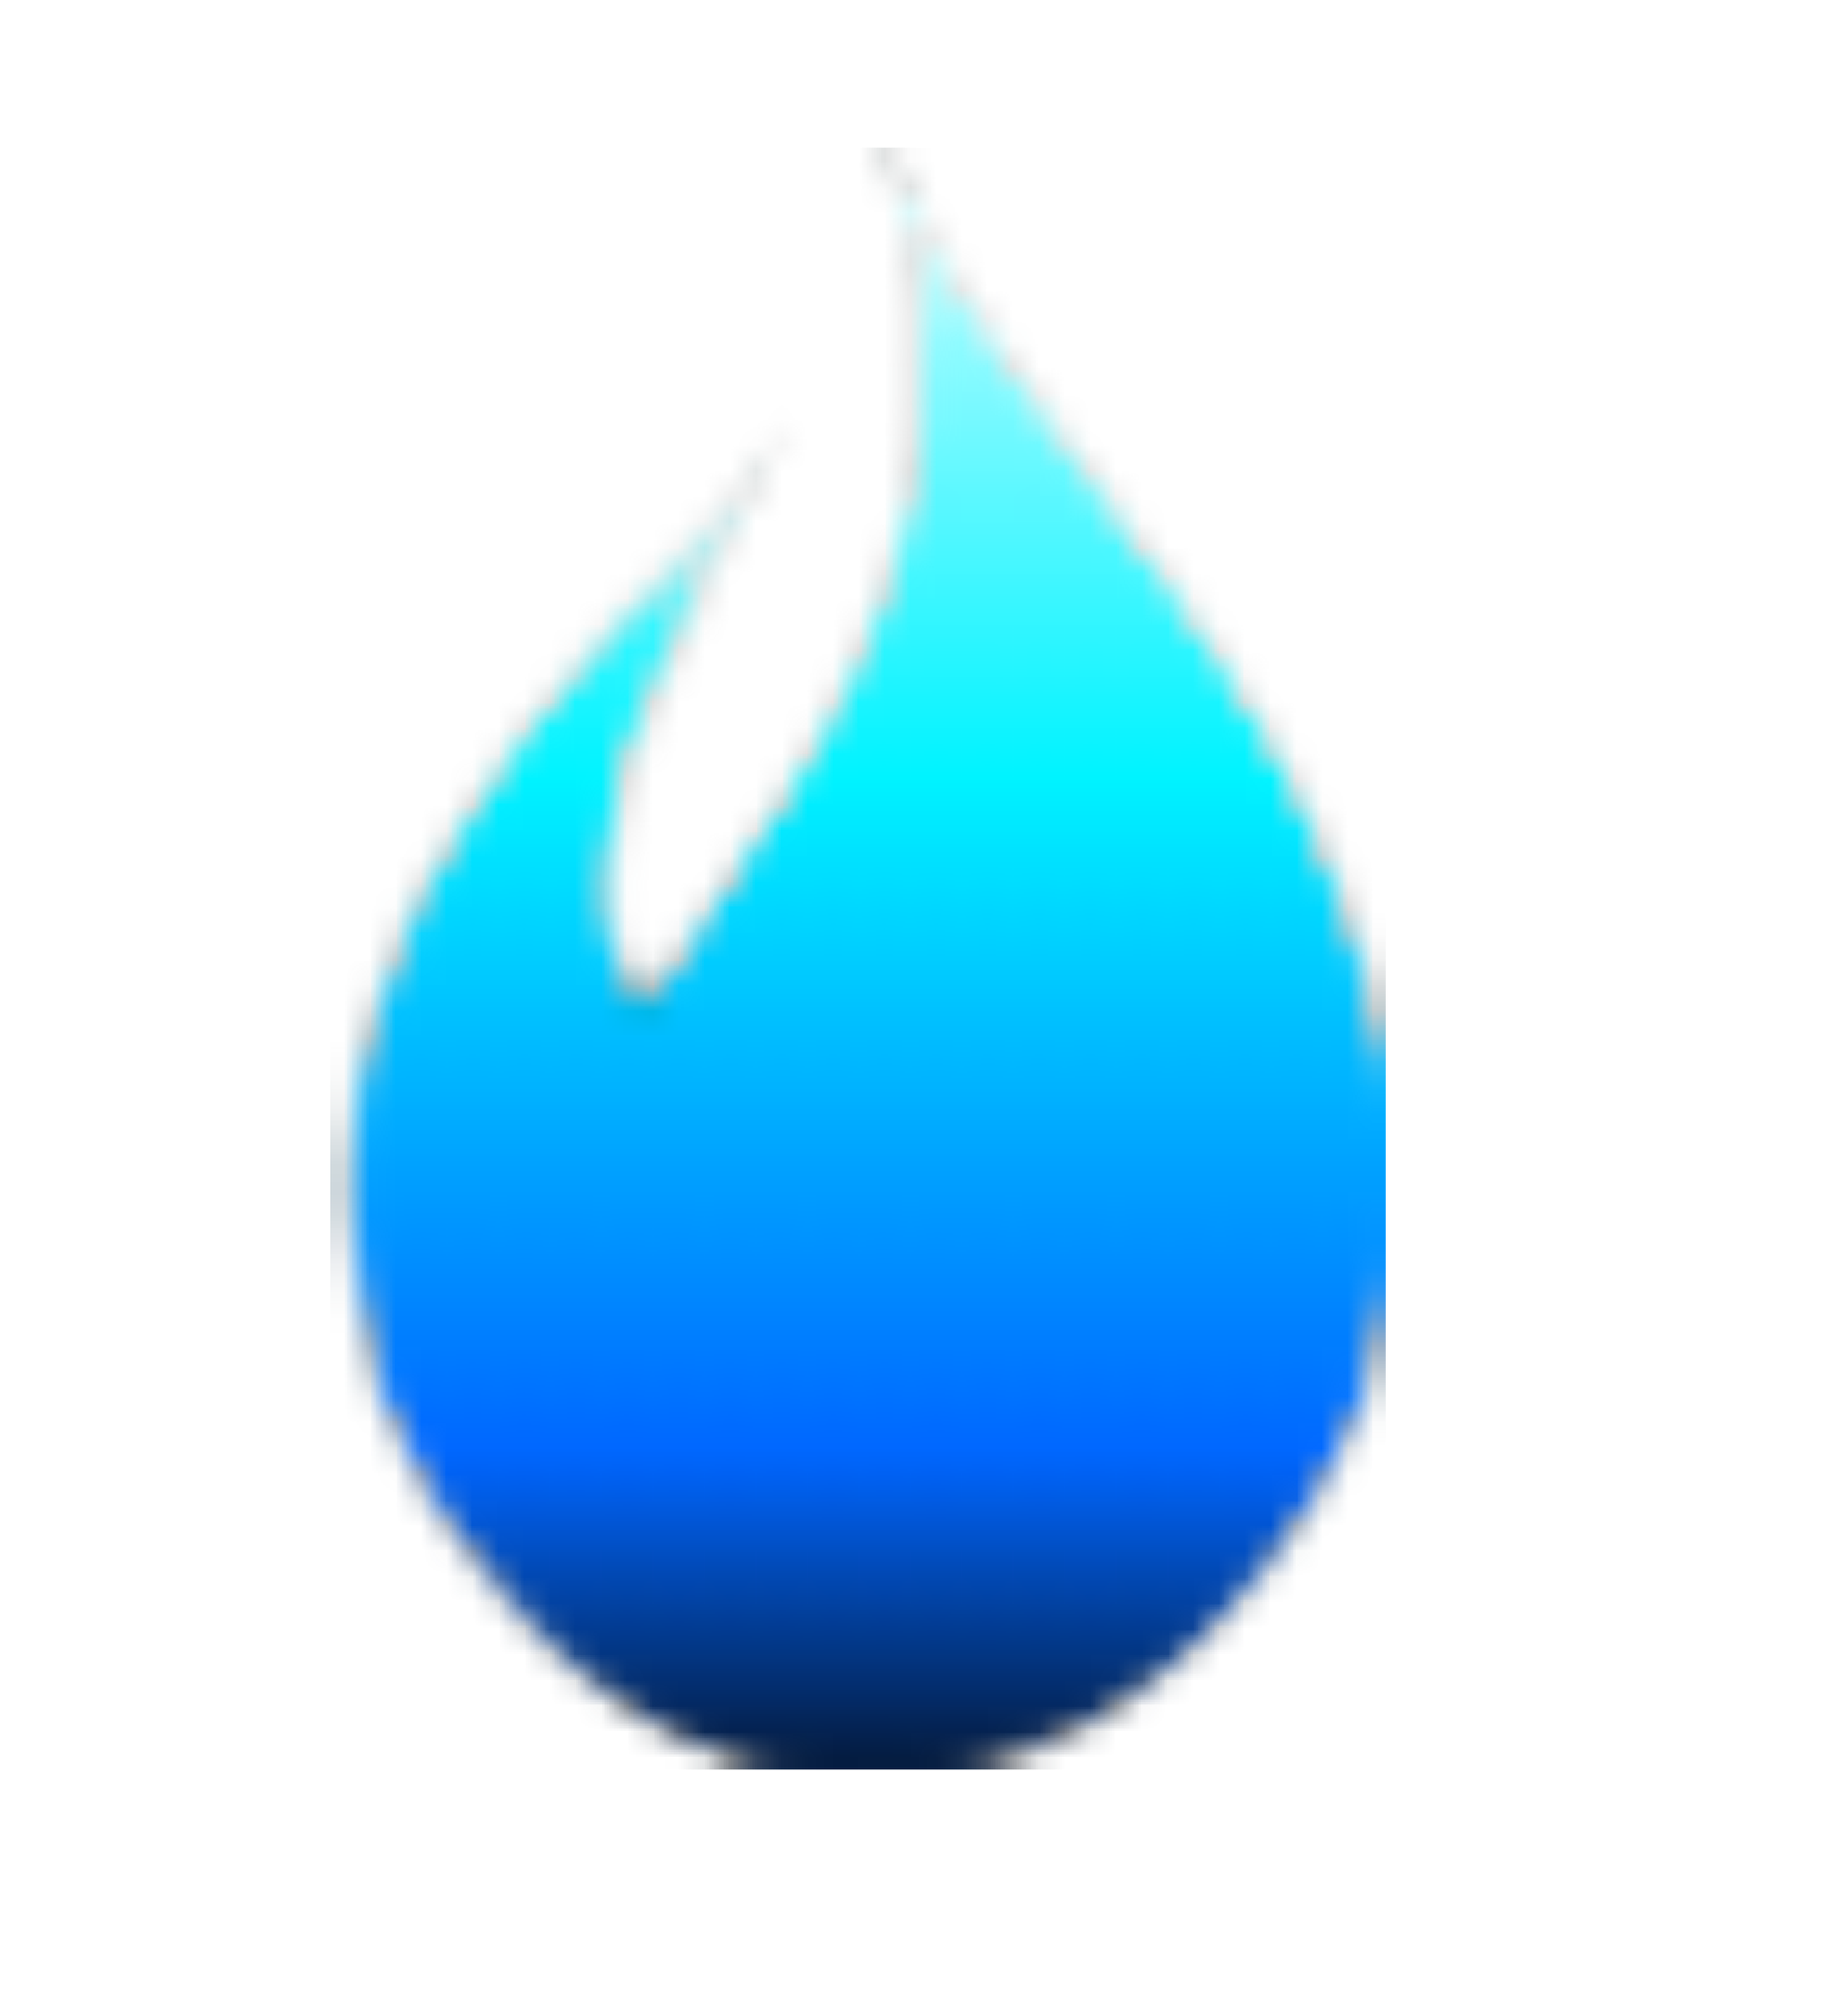
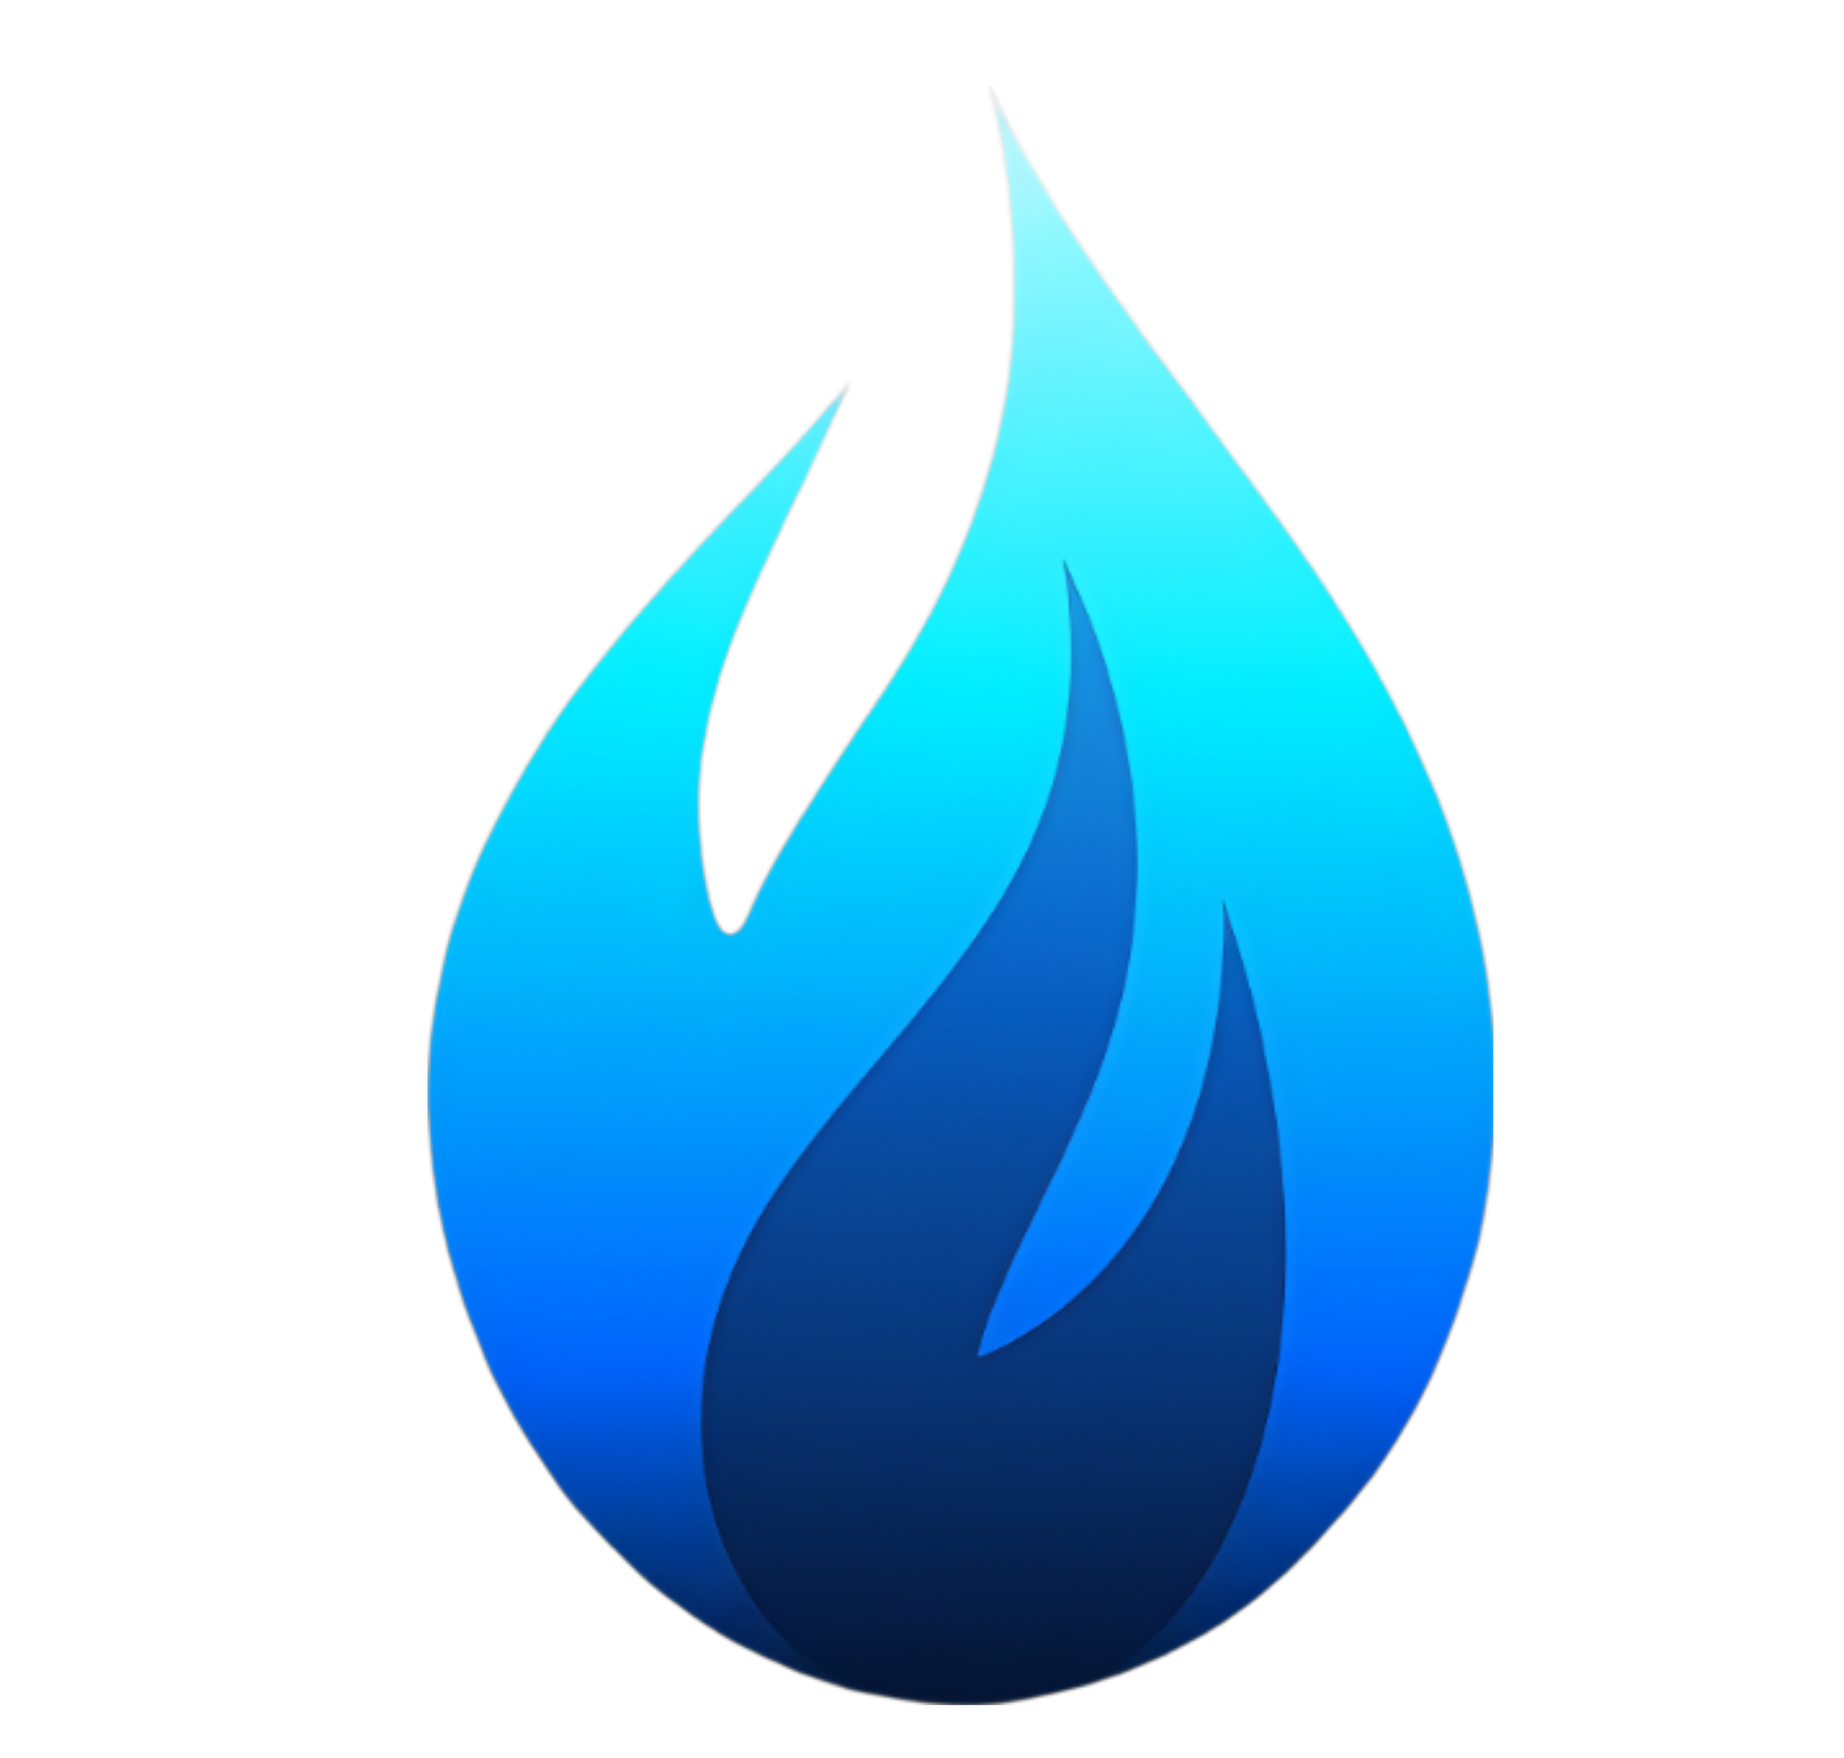
Add files via upload

Changed region(s): [[0.1562, 0.0623, 0.8125, 0.9962]]

diff --git a/index.html b/index.html
@@ -5,7 +5,8 @@
 <meta name="viewport" content="width=device-width, initial-scale=1">
 <meta name="referrer" content="strict-origin-when-cross-origin">
 <meta http-equiv="Content-Security-Policy" content="object-src 'none'; base-uri 'self'; form-action 'self'">
-<title>Prizmothyn · Addons</title>
+<link rel="icon" href="icon/icon.png" type="image/png">
+<title>Prizmothyn · Comunidad y catálogo</title>
 <style>
   :root {
     color-scheme: light;
@@ -238,7 +239,20 @@
     display: flex; flex-direction: column; align-items: center; justify-content: center;
     gap: 14px; background: var(--bg); color: var(--muted); font-size: 14px;
   }
-  .boot-screen .logo { font-size: 42px; }
+  .boot-screen img {
+    display: block;
+    width: min(112px, 30vw);
+    height: min(130px, 35vw);
+    object-fit: contain;
+    filter: drop-shadow(0 0 18px rgba(38, 126, 255, .36));
+    animation: boot-logo-pulse 1.8s ease-in-out infinite;
+  }
+  @keyframes boot-logo-pulse {
+    50% { filter: drop-shadow(0 0 26px rgba(38, 126, 255, .62)); }
+  }
+  @media (prefers-reduced-motion: reduce) {
+    .boot-screen img { animation: none; }
+  }
   .muted { color: var(--muted); }
 
   .avatar {
@@ -409,31 +423,12 @@
     color: var(--text);
     white-space: nowrap;
   }
-  .brand-logo {
-    position: relative;
-    display: inline-flex;
-    width: 26px;
-    height: 30px;
-    flex: 0 0 auto;
-    align-items: center;
-    justify-content: center;
-  }
-  .brand-logo::before {
-    position: absolute;
-    inset: 3px -4px;
-    border-radius: 50%;
-    background: radial-gradient(ellipse, rgba(45, 145, 255, .7), rgba(38, 104, 255, .2) 48%, transparent 76%);
-    filter: blur(5px);
-    content: "";
-  }
-  .brand-logo img {
-    position: relative;
-    z-index: 1;
+  .brand-title {
     display: block;
-    width: auto;
-    height: 28px;
+    width: 154px;
+    height: 69px;
     object-fit: contain;
-    filter: drop-shadow(0 0 4px rgba(67, 159, 255, .55));
+    filter: drop-shadow(0 0 8px rgba(37, 131, 255, .28));
   }
   .nav { display: none; }
   .nav button {
@@ -464,7 +459,7 @@
   .auth-note { margin: 14px 0 0; color: var(--muted); font-size: 12px; line-height: 1.5; text-align: center; }
   .guest-login-btn { width: 100%; margin-top: 12px; }
   .addons-guest-bar { display: flex; align-items: center; justify-content: space-between; gap: 12px; flex-wrap: wrap; }
-  .menu-btn, .bell-btn {
+  .menu-btn {
     position: relative;
     display: inline-flex;
     align-items: center;
@@ -479,24 +474,7 @@
     line-height: 1;
     transition: background .15s, border-color .15s;
   }
-  .menu-btn:hover, .bell-btn:hover { background: var(--panel-2); border-color: rgba(var(--brand-rgb), .35); }
-  .badge-count {
-    position: absolute;
-    top: -4px;
-    right: -4px;
-    min-width: 19px;
-    height: 19px;
-    padding: 0 5px;
-    border-radius: 999px;
-    background: var(--danger);
-    color: #fff;
-    border: 2px solid var(--bg);
-    font-size: 11px;
-    font-weight: 800;
-    display: inline-flex;
-    align-items: center;
-    justify-content: center;
-  }
+  .menu-btn:hover { background: var(--panel-2); border-color: rgba(var(--brand-rgb), .35); }
 
   .role {
     display: inline-flex;
@@ -945,10 +923,15 @@
     background: var(--bg-soft);
     cursor: pointer;
   }
-  .settings-about { display: flex; align-items: center; justify-content: space-between; gap: 16px; }
-  .settings-about strong { display: block; font-size: 16px; }
+  .settings-about-card { min-height: 165px; display: flex; flex-direction: column; }
+  .settings-about-heading { display: flex; align-items: center; flex-wrap: wrap; gap: 5px; }
+  .settings-about-heading h2 { margin: 0; }
+  .settings-about-brand { display: inline-flex; align-items: center; min-width: 0; }
+  .settings-about-title { display: block; width: min(112px, 30vw); height: auto; }
+  .settings-about-footer { display: flex; flex: 1; align-items: flex-end; justify-content: space-between; gap: 16px; padding: 18px 4px 4px 24px; }
   .settings-about span { color: var(--muted); font-size: 13px; }
   .settings-about .version { color: var(--brand); font-weight: 700; }
+  .settings-about .creator { text-align: right; }
 
   :root[data-size="low"] .card { box-shadow: none; }
   :root[data-size="high"] .card { box-shadow: var(--shadow); }
@@ -1502,15 +1485,14 @@
     .nav { display: none; }
     .topbar { gap: 10px; }
     .brand { gap: 6px; font-size: 17px; }
-    .brand-logo { width: 23px; height: 27px; }
-    .brand-logo img { height: 25px; }
+    .brand-title { width: 128px; height: 58px; }
   }
 </style>
 </head>
 <body>
 
 <div id="bootScreen" class="boot-screen">
-  <span class="logo">✦</span>
+  <img src="icon/loading.png" alt="" fetchpriority="high">
   <span>Cargando Prizmothyn…</span>
 </div>
 
@@ -1528,7 +1510,7 @@
     <header class="policy-header">
       <span class="policy-mark" aria-hidden="true">✦</span>
       <div>
-        <span class="policy-eyebrow">WORLDLEAF · COMUNIDAD</span>
+        <span class="policy-eyebrow">PRIZMOTHYN · COMUNIDAD</span>
         <h1 id="policyTitle">Tu privacidad importa</h1>
         <p>Lee estas pautas para continuar y compartir de forma segura.</p>
       </div>
@@ -1644,7 +1626,7 @@
 
   <header class="topbar">
     <button class="menu-btn" id="menuBtn" type="button" title="Abrir menú" aria-label="Abrir menú">☰</button>
-    <button class="brand" id="homeBtn" type="button" aria-label="Prizmothyn, inicio"><span class="brand-logo"><img src="icon/icon.png" alt=""></span><span class="brand-text">Prizmothyn</span></button>
+    <button class="brand" id="homeBtn" type="button" aria-label="Prizmothyn, inicio"><img class="brand-title" src="icon/title.png" alt="Prizmothyn"></button>
     <nav class="nav">
       <button type="button" data-view="search">Buscar</button>
       <button type="button" data-view="feed">Publicaciones</button>
@@ -1652,7 +1634,6 @@
       <button type="button" data-view="servers">Servidores</button>
     </nav>
     <div class="top-actions">
-      <button class="bell-btn" id="notifBtn" type="button" title="Notificaciones" aria-label="Notificaciones">🔔<span id="notifBadge" class="badge-count hidden">0</span></button>
       <button class="btn primary guest-access-btn hidden" id="guestAccessBtn" type="button">Acceder</button>
       <button class="avatar-btn" id="myProfileBtn" type="button" title="Mi perfil" aria-label="Abrir mi perfil"><img id="topAvatar" class="avatar md" alt=""></button>
     </div>
@@ -2319,17 +2300,6 @@
     return navigate(targetView, { userId: targetUserId, skipHash: true });
   }
 
-  function updateNotifBadges() {
-    var n = parseInt(state.notifUnread, 10) || 0;
-    var text = n > 9 ? '9+' : String(n);
-    ['#notifBadge'].forEach(function (sel) {
-      var el = $(sel);
-      if (!el) return;
-      el.textContent = text;
-      el.classList.toggle('hidden', n <= 0);
-    });
-  }
-
   var toastTimer = null;
   function toast(message, type) {
     var el = $('#toast');
@@ -2381,6 +2351,13 @@
             reject({ code: 'NETWORK', message: (err && err.message) || 'Error de conexión' });
           })
           .apiCall(JSON.stringify(payload));
+      });
+    }
+
+    if (window.location.protocol === 'file:') {
+      return Promise.reject({
+        code: 'LOCAL_FILE',
+        message: 'Abriste la app como archivo local. Usa la URL del despliegue de Prizmothyn terminada en /exec para conectar con el servidor.'
       });
     }
 
@@ -2764,7 +2741,6 @@
       if ($('#sideName')) $('#sideName').textContent = 'Invitado';
       if ($('#sideHandle')) $('#sideHandle').textContent = 'Explora sin cuenta';
       if ($('#sideRole')) $('#sideRole').innerHTML = '';
-      if ($('#notifBadge')) $('#notifBadge').classList.add('hidden');
       var mini = $('#miniProfile');
       if (mini) {
         mini.innerHTML =
@@ -2812,7 +2788,6 @@
     var miniBtn = $('#miniProfileBtn');
     if (miniBtn) miniBtn.addEventListener('click', function () { navigate('profile', { userId: state.me.userId }); });
 
-    updateNotifBadges();
   }
 
   function userRowHTML(u) {
@@ -2871,7 +2846,6 @@
       try {
         await api('marcarNotificacionesLeidas');
         state.notifUnread = 0;
-        updateNotifBadges();
         $all('.notif-item.unread').forEach(function (el) {
           el.classList.remove('unread');
           var dot = el.querySelector('.notif-dot');
@@ -2911,14 +2885,11 @@
           ? d.notificaciones.map(notifHTML).join('')
           : emptyState('No tienes notificaciones todavía.');
       }
-      updateNotifBadges();
-
       if (d.sinLeer > 0) {
         try {
           await api('marcarNotificacionesLeidas');
           state.notifUnread = 0;
           markNotifCacheRead();
-          updateNotifBadges();
           $all('.notif-item.unread').forEach(function (el) {
             el.classList.remove('unread');
             var dot = el.querySelector('.notif-dot');
@@ -2934,23 +2905,6 @@
         box.innerHTML = emptyState('No se pudieron cargar las notificaciones.');
       }
       toast(err.message || 'Error al cargar notificaciones', 'err');
-    }
-  }
-
-  async function refreshNotifCount() {
-    if (!state.me) return;
-    try {
-      var d = await api('contarNotificaciones');
-      state.notifUnread = d.sinLeer || 0;
-      updateNotifBadges();
-      var c = readCache(CACHE_NOTIF_KEY, null);
-      if (c) {
-        c.sinLeer = state.notifUnread;
-        c.at = Date.now();
-        writeCache(CACHE_NOTIF_KEY, c);
-      }
-    } catch (e) {
-      /* silencioso */
     }
   }
 
@@ -3043,17 +2997,6 @@
         closeActionMenus();
         closeDrawer();
       }
-    });
-    document.addEventListener('visibilitychange', function () {
-      if (!document.hidden && state.me) refreshNotifCount();
-    });
-    setInterval(function () {
-      if (!document.hidden && state.me) refreshNotifCount();
-    }, 180000);
-
-    $('#notifBtn').addEventListener('click', function () {
-      if (!state.me) { showAuth(); return; }
-      navigate('notifications');
     });
     $('#myProfileBtn').addEventListener('click', function () {
       if (state.me) navigate('profile', { userId: state.me.userId });
@@ -4545,11 +4488,16 @@
               '<div id="reportQueue"><div class="center-load"><div class="spinner"></div></div></div></div>'
             : '') +
         '</section>' +
-        '<section class="card settings-card">' +
-          '<h2>Acerca de</h2>' +
-          '<div class="settings-about">' +
-            '<div><strong>✦ Prizmothyn</strong><span>Creado por JM-TechStudios</span></div>' +
+        '<section class="card settings-card settings-about-card">' +
+          '<div class="settings-about-heading">' +
+            '<h2>Acerca de</h2>' +
+            '<div class="settings-about-brand">' +
+              '<img class="settings-about-title" src="icon/title.png" alt="Prizmothyn">' +
+            '</div>' +
+          '</div>' +
+          '<div class="settings-about-footer">' +
             '<span class="version">Versión 1.0</span>' +
+            '<span class="creator">Creado por JM-TechStudios</span>' +
           '</div>' +
         '</section>' +
       '</div>';
@@ -4913,7 +4861,7 @@
       console.error('No se pudieron cargar las cantidades por categoría: ' +
         ((err && err.message) || err));
       if (state.view === 'home' || state.view === 'addons') {
-        toast('No se pudieron cargar las cantidades por categoría.', 'warn');
+        toast((err && err.message) || 'No se pudieron cargar las cantidades por categoría.', 'warn');
       }
     } finally {
       catalog.categoryCountsLoading = false;
